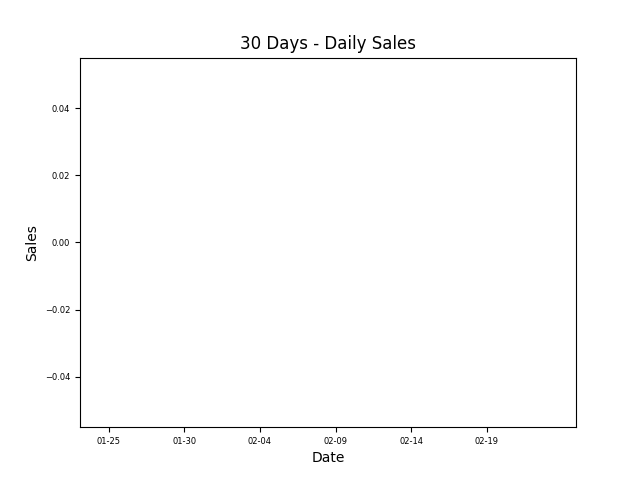
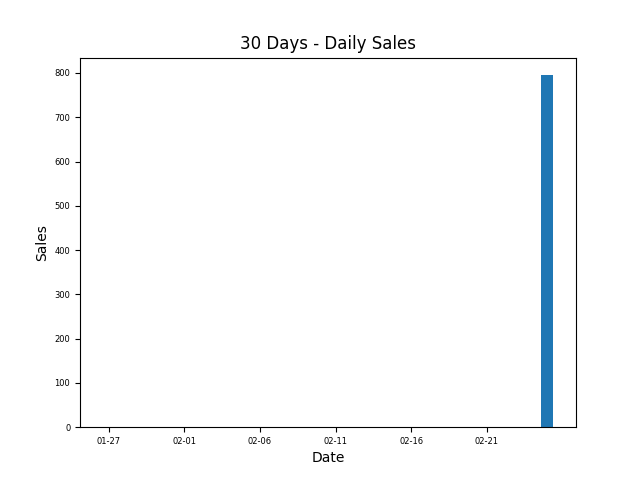
initial baseline for project

diff --git a/templates/reports.html b/templates/reports.html
@@ -1,55 +1,50 @@
 {% extends 'main.html' %}
 {% load static %}
 {% block content %}
-<main class="projects">
-    <section class="hero-section text-center">
-    <div class="container container--narrow">
-      <div class="hero-section__box">
-        <h2>KPI <span>Reports</span></h2>
-      </div>
-    </div>
-</main>
-
-<table class="table">
+<h1 class="align-center">KPI REPORTS</h1>
+<hr>
+<table class="tableReport">
     <tr>
         <td>Daily Revenue:</td>
         <td>Monthly Revenue:</td>
         <td>Yearly Revenue:</td>
     </tr>
     <tr>
-        <td><h2>{{ dailyRevenue }}</h2></td>
-        <td><h2>{{ monthlyRevenue }}</h2></td>
-        <td><h2>{{ yearlyRevenue }}</h2></td>
+        <td><h2>RM{{ dailyRevenue }}</h2></td>
+        <td><h2>RM{{ monthlyRevenue }}</h2></td>
+        <td><h2>RM{{ yearlyRevenue }}</h2></td>
     </tr>
     <tr>
-        <td><img src="{% static 'charts/daily-sales.png' %}" ></td>
+        <td><img src="{% static 'charts/daily-revenues.png' %}" ></td>
+        <td><img src="{% static 'charts/top-customers.png' %}"></td>
         <td>
-            <table class="table">
+            <table class="tableReport">
                 <tr>
-                    <th>Customer Name</th>
-                    <th>Revenue</th>
+                    <th>Customer</th>
+                    <th class="align-numeric">Revenue</th>
                 </tr>
                 {% for key, value in topCustomers.items %}
                 <tr>
-                    <td>{{ key }}</td>
-                    <td>{{ value }}</td>
+                    <td class="align-center">{{ key }}</td>
+                    <td class="align-numeric">RM{{ value }}</td>
                 </tr>
                 {% endfor %}
             </table>
         </td>
     </tr>
-        <tr>
-        <td></td>
+    <tr>
+        <td><img src="{% static 'charts/daily-sales.png' %}" ></td>
+        <td><img src="{% static 'charts/top-products.png' %}"></td>
         <td>
-            <table class="table">
+            <table class="tableReport">
                 <tr>
                     <th>Product</th>
-                    <th>Revenue</th>
+                    <th class="align-numeric">Revenue</th>
                 </tr>
                 {% for key, value in topProducts.items %}
                 <tr>
-                    <td>{{ key }}</td>
-                    <td>{{ value }}</td>
+                    <td class="align-center">{{ key }}</td>
+                    <td class="align-numeric">RM{{ value }}</td>
                 </tr>
                 {% endfor %}
             </table>

diff --git a/templates/home.html b/templates/home.html
@@ -8,7 +8,7 @@
 <table class="tableLanding">
     <tr>
         <td>
-            <h3>WELCOME to</h3><h2>TAIPING FONG LIM ENTERPRISE</h2>
+            <h3>Welcome to</h3><h2>TAIPING FONG LIM ENTERPRISE</h2>
             <br><br><br>
             {% if request.user.is_authenticated %}
             <h1 class="btn btn--sub btn--lg" type="button" value=""><a href="{% url 'create-order' %}">Create Order</a></h1>

diff --git a/static/styles/app.css b/static/styles/app.css
@@ -869,6 +869,14 @@ img {
   margin-right: auto;
 }
 
+.tableReport {
+  width: 95%;
+  align-content: center;
+  table-layout: fixed;
+  margin-left: auto;
+  margin-right: auto;
+}
+
 .tableLanding {
   width: 50%;
   margin-top: auto;

diff --git a/products/views.py b/products/views.py
@@ -4,7 +4,7 @@ from django.db.models import Q
 from .forms import OrderForm, CustomerForm, ProductForm
 from django.contrib.auth.models import User
 from django.contrib.auth import login, authenticate, logout
-from django.contrib.auth.decorators import login_required
+from django.contrib.auth.decorators import login_required, user_passes_test
 from django.contrib import messages
 from .utilities import searchItems, paginateItems, searchOrdersForInvoice
 from django.template import RequestContext
@@ -108,6 +108,7 @@ def createQROrder(request):
     context = {'form':form}
     return render(request, "order_form.html", context)
 @login_required(login_url='login')
+@user_passes_test(lambda u: u.is_superuser)
 def updateOrder(request, pk):
     order = Order.objects.get(id=pk)
     form = OrderForm(instance=order)
@@ -135,6 +136,7 @@ def retrieveOrder(request, pk):
     context = {'form': form}
     return render(request, "view_order.html", context)
 @login_required(login_url='login')
+@user_passes_test(lambda u: u.is_superuser)
 def deleteOrder(request, pk):
     order = Order.objects.get(id=pk)
     form = OrderForm(instance=order)
@@ -187,6 +189,7 @@ def render_pdf_view(request, *args, **kwargs):
     return response
 
 @login_required(login_url='login')
+@user_passes_test(lambda u: u.is_superuser)
 def generateInvoices(request):
     # generate actual invoice
     if request.method == "POST":
@@ -231,6 +234,7 @@ def products(request):
     context = {'products': products, 'search_query': search_query, 'custom_range': custom_range}
     return render(request, 'products.html', context)
 @login_required(login_url='login')
+@user_passes_test(lambda u: u.is_superuser)
 def createProduct(request):
     form = ProductForm()
 
@@ -243,6 +247,7 @@ def createProduct(request):
     context = {'form': form}
     return render(request, "product_form.html", context)
 @login_required(login_url='login')
+@user_passes_test(lambda u: u.is_superuser)
 def updateProduct(request, pk):
     product = Product.objects.get(id=pk)
     form = ProductForm(instance=product)
@@ -257,12 +262,14 @@ def updateProduct(request, pk):
     return render(request, "product_form.html", context)
 
 @login_required(login_url='login')
+@user_passes_test(lambda u: u.is_superuser)
 def customers(request):
     customers, search_query = searchItems(request, 'search_customer')
     custom_range, customers = paginateItems(request, customers)
     context = {'customers': customers, 'search_query': search_query, 'custom_range': custom_range}
     return render(request, 'customers.html', context)
 @login_required(login_url='login')
+@user_passes_test(lambda u: u.is_superuser)
 def createCustomer(request):
     form = CustomerForm()
 
@@ -276,6 +283,7 @@ def createCustomer(request):
     return render(request, "customer_form.html", context)
 
 @login_required(login_url='login')
+@user_passes_test(lambda u: u.is_superuser)
 def retrieveCustomer(request, pk):
     customer = Customer.objects.get(id=pk)
     form = CustomerForm(instance=customer)
@@ -286,6 +294,7 @@ def retrieveCustomer(request, pk):
     context = {'form': form}
     return render(request, "view_customer.html", context)
 @login_required(login_url='login')
+@user_passes_test(lambda u: u.is_superuser)
 def updateCustomer(request, pk):
     customer = Customer.objects.get(id=pk)
     form = CustomerForm(instance=customer)
@@ -298,7 +307,9 @@ def updateCustomer(request, pk):
 
     context = {'form': form}
     return render(request, "customer_form.html", context)
+
 @login_required(login_url='login')
+@user_passes_test(lambda u: u.is_superuser)
 def deleteCustomer(request, pk):
     customer = Customer.objects.get(id=pk)
     form = CustomerForm(instance=customer)
@@ -308,23 +319,18 @@ def deleteCustomer(request, pk):
     context = {'form':form}
     return render(request, 'delete_customer.html', context)
 
-
 @login_required(login_url='login')
+@user_passes_test(lambda u: u.is_superuser)
 def reports(request):
     today = datetime.now().date()
-    year = str(today.year)
-    month = str(today.month)
-    # +1 to include today
-    day = str(today.day + 1)
-    todayDateString = year + '-' + month + '-' + day
-    startDayOfYear = year + '-01-01'
+    tomorrow = datetime.now().date() + timedelta(days=1)
+    startOfYear = today.replace(month=1, day=1)
 
     dailyRevenue = 0
     monthlyRevenue = 0
     yearlyRevenue = 0
 
-    orders = Order.objects.filter(transactionTime__range=[startDayOfYear, todayDateString])
-
+    orders = Order.objects.filter(transactionTime__range=[startOfYear, tomorrow])
     for order in orders:
         if order.transactionTime.day == today.day and order.transactionTime.month == today.month and order.transactionTime.year == today.year:
             dailyRevenue += order.subtotal
@@ -333,14 +339,48 @@ def reports(request):
         if order.transactionTime.year == today.year:
             yearlyRevenue += order.subtotal
 
-    monthToDate = today - timedelta(30)
+    monthToDate = tomorrow - timedelta(days=30)
     def daterange(start_date, end_date):
         for n in range(int((end_date - start_date).days)):
             yield start_date + timedelta(n)
+
+    def dailyRevenuesChart():
+        days = []
+        revenues = []
+        for singleDay in daterange(monthToDate, tomorrow):
+            days.append(singleDay.strftime("%m-%d"))
+            orders = Order.objects.filter(transactionTime__range=[singleDay, singleDay + timedelta(days=1)])
+
+            dayRevenue = 0
+            for order in orders:
+                dayRevenue += order.discountedTotal()
+            revenues.append(dayRevenue)
+
+        # create a figure and a subplot
+        fig, ax = plt.subplots()
+
+        # plot the data as a line
+        ax.bar(days, revenues)
+
+        # set the title and axis labels
+        ax.set_title('30 Days - Daily Revenues')
+        ax.set_xlabel('Date')
+        ax.set_ylabel('Revenue')
+
+        ax.set_xticks(days[::5])
+        ax.set_xticklabels(days[::5])
+
+        ax.tick_params(axis='x', labelsize=6)
+
+        ax.tick_params(axis='y', which='major', labelsize=6)
+
+        plt.savefig('static/charts/daily-revenues.png')
+
+    dailyRevenuesChart()
     def dailySalesChart():
         days = []
         sales = []
-        for singleDay in daterange(monthToDate, today):
+        for singleDay in daterange(monthToDate, tomorrow):
             days.append(singleDay.strftime("%m-%d"))
             orders = Order.objects.filter(transactionTime__range=[singleDay, singleDay + timedelta(days=1)])
 
@@ -373,12 +413,12 @@ def reports(request):
 
     def listOfTopCustomers():
         customers = {}
-        orders = Order.objects.filter(transactionTime__range=[monthToDate, todayDateString])
+        orders = Order.objects.filter(transactionTime__range=[monthToDate, tomorrow])
         for order in orders:
-            if order.customer.fullname not in customers:
-                customers.update({order.customer.fullname: order.subtotal})
-            elif order.customer.fullname in customers:
-                customers[order.customer.fullname] += order.subtotal
+            if order.customer not in customers:
+                customers.update({order.customer: order.subtotal})
+            elif order.customer in customers:
+                customers[order.customer] += order.subtotal
 
         sorted_customers = dict(sorted(customers.items(), key=lambda item: item[1], reverse=True))
 
@@ -388,14 +428,16 @@ def reports(request):
             topCustomers[key] = sorted_customers[key]
         return topCustomers
 
+    topCustomers = listOfTopCustomers()
+
     def listOfTopProducts():
         products = {}
-        orders = Order.objects.filter(transactionTime__range=[monthToDate, todayDateString])
+        orders = Order.objects.filter(transactionTime__range=[monthToDate, tomorrow])
         for order in orders:
-            if order.product.nameAndGrade not in products:
-                products.update({order.product.nameAndGrade: order.subtotal})
-            elif order.product.nameAndGrade in products:
-                products[order.product.nameAndGrade] += order.subtotal
+            if order.product not in products:
+                products.update({order.product: order.subtotal})
+            elif order.product in products:
+                products[order.product] += order.subtotal
 
         sorted_products = dict(sorted(products.items(), key=lambda item: item[1], reverse=True))
 
@@ -405,8 +447,36 @@ def reports(request):
             topProducts[key] = sorted_products[key]
         return topProducts
 
-    topCustomers = listOfTopCustomers()
     topProducts = listOfTopProducts()
+
+    def topCustomersChart():
+        topCustomersList = list(topCustomers.keys())
+        totalRevenues = list(topCustomers.values())
+
+        fig1, ax1 = plt.subplots()
+        ax1.pie(totalRevenues, labels=topCustomersList, autopct='%1.1f%%', startangle=90)
+        ax1.axis('equal')
+
+        plt.title('Top Customers By Revenue')
+
+        plt.savefig('static/charts/top-customers.png')
+
+    topCustomersChart()
+
+    def topProductsChart():
+        topProductsList = list(topProducts.keys())
+        totalRevenues = list(topProducts.values())
+
+        fig1, ax1 = plt.subplots()
+        ax1.pie(totalRevenues, labels=topProductsList, autopct='%1.1f%%', startangle=90)
+        ax1.axis('equal')
+
+        plt.title('Top Products By Revenue')
+
+        plt.savefig('static/charts/top-products.png')
+
+    topProductsChart()
+
     context = {'dailyRevenue': dailyRevenue, 'monthlyRevenue': monthlyRevenue, 'yearlyRevenue': yearlyRevenue, 'topCustomers': topCustomers, 'topProducts':topProducts}
     return render(request, 'reports.html', context)
 

diff --git a/products/models.py b/products/models.py
@@ -74,9 +74,6 @@ class Product(models.Model):
     def __str__(self):
         return f"{self.productName} {self.grade}"
 
-    @property
-    def nameAndGrade(self):
-        return f"{self.productName} {self.grade}"
 
 class Invoice(models.Model):
     customer = models.ForeignKey(Customer, on_delete=models.PROTECT, null=True)
